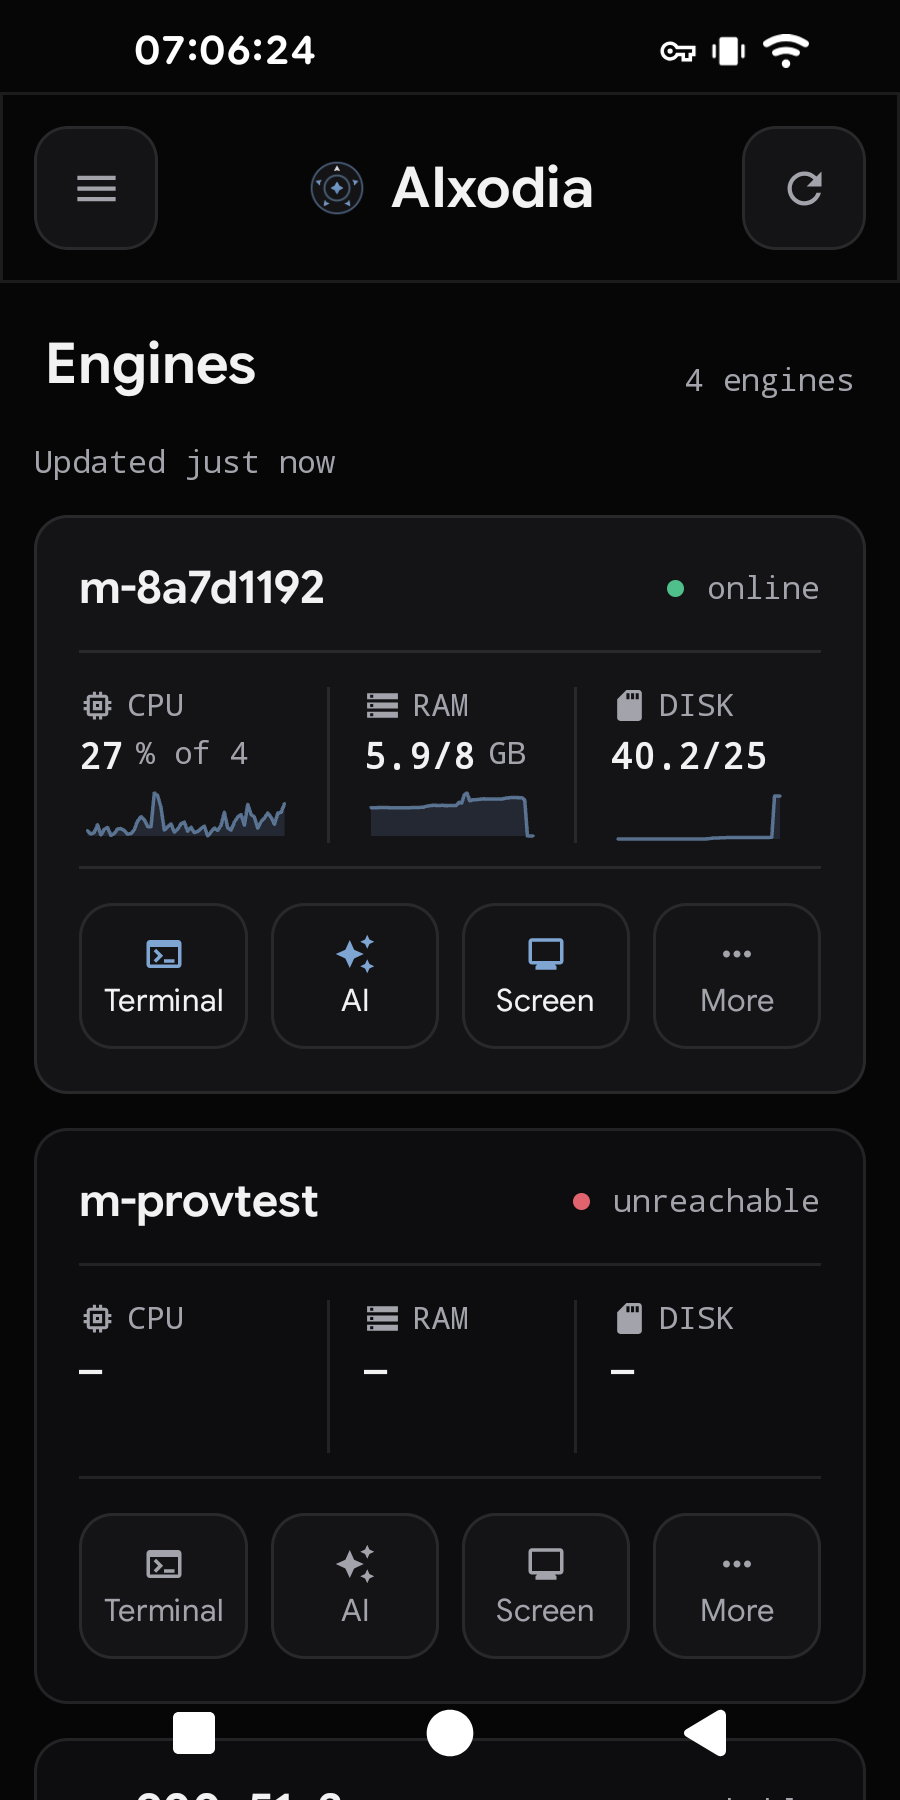
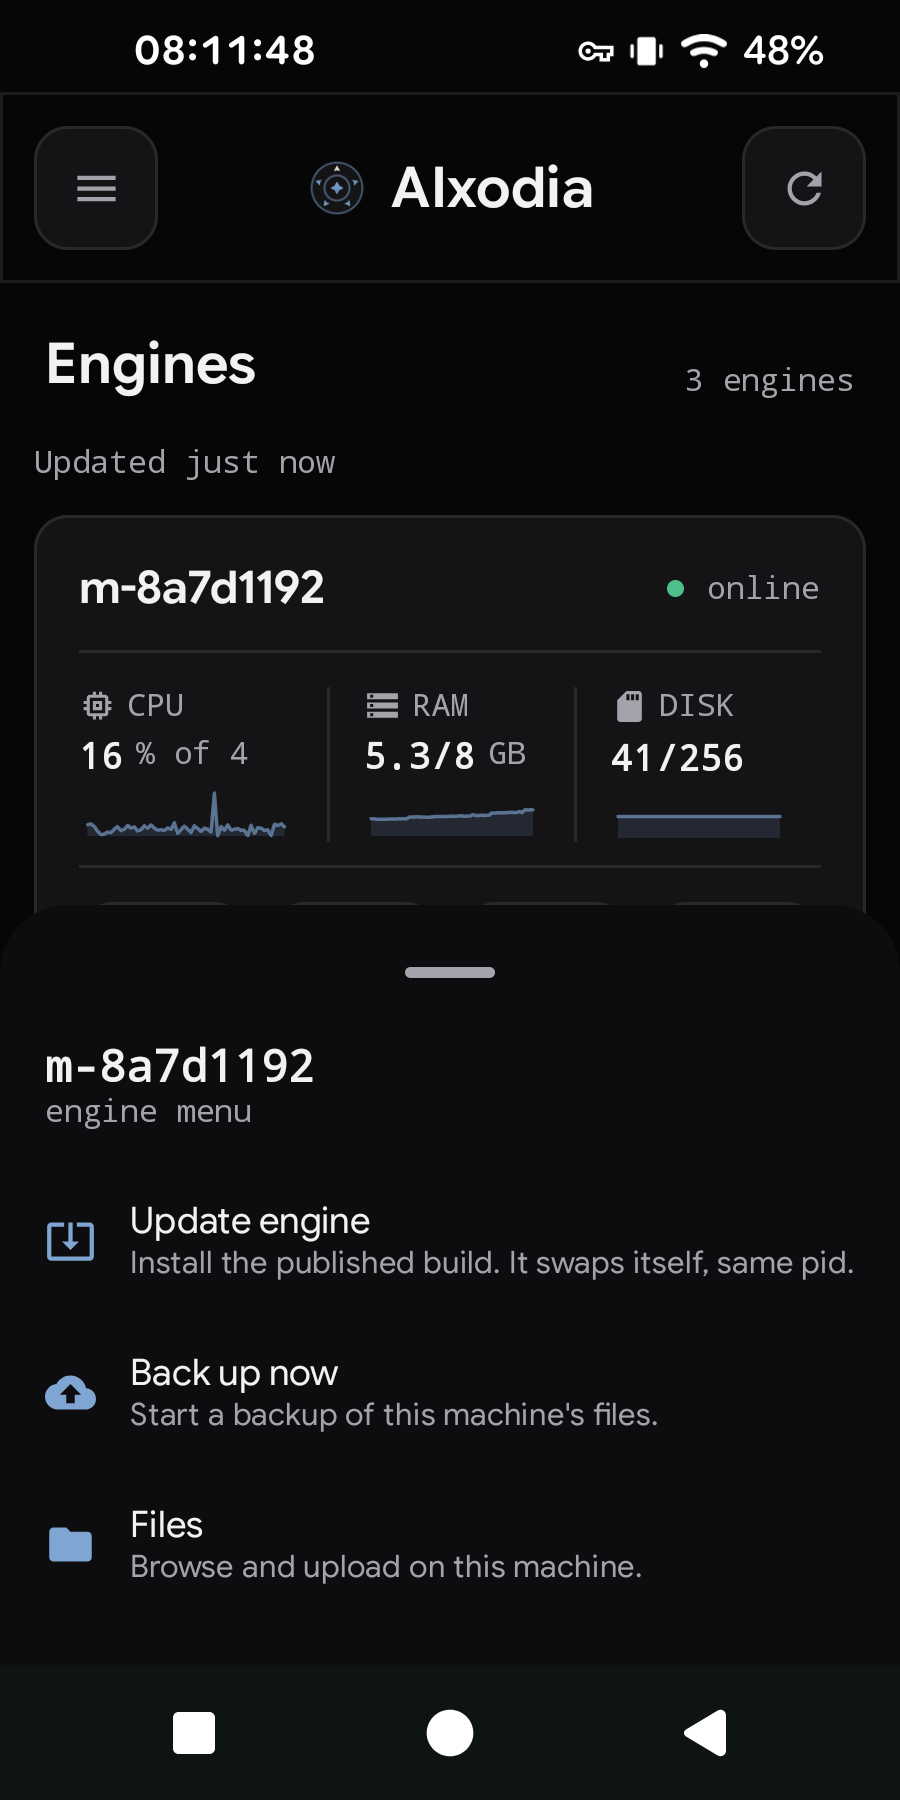
engines: the More menu is a panel in the middle, not a sheet
A sheet rises from the bottom and covers the list it was opened from — the card
the reader is deciding about disappears behind it. This is a question about
*that* card, asked while looking at it, so it is a panel over the middle of the
screen: the card stays visible behind the dimmed list.

Centred, sized by its own width (32 dp from each edge) rather than by the
dialog's default measurement, with a hairline between rows as the console draws
one. The result line appears under the rows only when there is something to
say: an empty two-line box there read as a fourth row that failed to load.

diff --git a/app/src/main/kotlin/com/tulipskun/aixodia/ui/engines/EngineMenu.kt b/app/src/main/kotlin/com/tulipskun/aixodia/ui/engines/EngineMenu.kt
@@ -1,6 +1,7 @@
 package com.tulipskun.aixodia.ui.engines
 
 import androidx.compose.foundation.background
+import androidx.compose.foundation.border
 import androidx.compose.foundation.clickable
 import androidx.compose.foundation.layout.Arrangement
 import androidx.compose.foundation.layout.Box
@@ -11,17 +12,16 @@ import androidx.compose.foundation.layout.fillMaxWidth
 import androidx.compose.foundation.layout.height
 import androidx.compose.foundation.layout.padding
 import androidx.compose.foundation.layout.size
+import androidx.compose.foundation.layout.width
+import androidx.compose.foundation.shape.RoundedCornerShape
 import androidx.compose.material.icons.Icons
 import androidx.compose.material.icons.filled.CloudUpload
 import androidx.compose.material.icons.filled.Folder
 import androidx.compose.material.icons.filled.SystemUpdateAlt
 import androidx.compose.material3.CircularProgressIndicator
-import androidx.compose.material3.ExperimentalMaterial3Api
 import androidx.compose.material3.Icon
 import androidx.compose.material3.MaterialTheme
-import androidx.compose.material3.ModalBottomSheet
 import androidx.compose.material3.Text
-import androidx.compose.material3.rememberModalBottomSheetState
 import androidx.compose.runtime.Composable
 import androidx.compose.ui.Alignment
 import androidx.compose.ui.Modifier
@@ -30,27 +30,33 @@ import androidx.compose.ui.text.font.FontFamily
 import androidx.compose.ui.text.font.FontWeight
 import androidx.compose.ui.text.style.TextOverflow
 import androidx.compose.ui.unit.dp
+import androidx.compose.ui.window.Dialog
+import androidx.compose.ui.window.DialogProperties
 import com.tulipskun.aixodia.EngineEntry
 import com.tulipskun.aixodia.ui.theme.Space
 import com.tulipskun.aixodia.ui.theme.aixodia
 
-/** The row names this sheet uses for "which one is working". */
+/** The row names this menu uses for "which one is working". */
 internal const val UPDATE = "update"
 internal const val BACKUP = "backup"
 
 /**
- * The sheet behind a card's **More**.
+ * The menu behind a card's **More**: a panel in the middle of the screen.
  *
  * A card has room for three verbs beside it; everything else a machine can be
- * asked to do would crowd those three into seven. The sheet is the second
- * shelf: the machine's name at the top, then one row per verb, each with the
- * sentence that says what it will actually do.
+ * asked to do would crowd those three into seven. This is the second shelf —
+ * the machine's name, then one row per verb with the sentence that says what it
+ * will actually do.
+ *
+ * It sits in the centre rather than rising from the bottom because it is a
+ * question about *this card*, asked while looking at the list: a sheet covers
+ * the card it belongs to, and the reader loses the machine they are deciding
+ * about. The panel keeps the list visible behind it and the card in place.
  *
  * The rows are three because three things exist to be said. A fourth that
  * nothing implements would be drawn disabled and would teach the reader that
- * the sheet is decoration; adding one here is one row and one call site.
+ * the menu is decoration; adding one is one row and one call site.
  */
-@OptIn(ExperimentalMaterial3Api::class)
 @Composable
 internal fun EngineMenu(
     engine: EngineEntry,
@@ -61,31 +67,48 @@ internal fun EngineMenu(
     onFiles: () -> Unit,
     onDismiss: () -> Unit,
 ) {
-    val sheet = rememberModalBottomSheetState(skipPartiallyExpanded = true)
-    ModalBottomSheet(
+    Dialog(
         onDismissRequest = onDismiss,
-        sheetState = sheet,
-        containerColor = MaterialTheme.colorScheme.surfaceContainerLow,
-        contentColor = MaterialTheme.colorScheme.onSurface,
+        // The default width is a percentage of the window taken by the dialog
+        // system; this panel decides its own, so a long description line is not
+        // wrapped by a number nobody here chose.
+        properties = DialogProperties(usePlatformDefaultWidth = false),
     ) {
-        Column(Modifier.fillMaxWidth().padding(horizontal = Space.s4)) {
+        val shape = RoundedCornerShape(14.dp)
+        Column(
+            Modifier
+                .fillMaxWidth()
+                .padding(horizontal = 32.dp)
+                .background(MaterialTheme.colorScheme.surfaceContainerHigh, shape)
+                .border(1.dp, MaterialTheme.aixodia.line, shape)
+                .padding(horizontal = Space.s4, vertical = Space.s3),
+        ) {
             // The console's head: what this is about, and what it is.
-            Text(
-                engine.name,
-                style = MaterialTheme.typography.titleMedium,
-                fontFamily = FontFamily.Monospace,
-                fontWeight = FontWeight.SemiBold,
-                color = MaterialTheme.colorScheme.onSurface,
-                maxLines = 1,
-                overflow = TextOverflow.Ellipsis,
-            )
-            Text(
-                if (engine.online) "engine menu" else "engine menu · unreachable",
-                style = MaterialTheme.typography.labelMedium,
-                fontFamily = FontFamily.Monospace,
-                color = MaterialTheme.colorScheme.onSurfaceVariant,
-            )
-            Spacer(Modifier.height(Space.s3))
+            Row(
+                Modifier.fillMaxWidth(),
+                verticalAlignment = Alignment.CenterVertically,
+                horizontalArrangement = Arrangement.SpaceBetween,
+            ) {
+                Text(
+                    engine.name,
+                    style = MaterialTheme.typography.titleMedium,
+                    fontFamily = FontFamily.Monospace,
+                    fontWeight = FontWeight.SemiBold,
+                    color = MaterialTheme.colorScheme.onSurface,
+                    maxLines = 1,
+                    overflow = TextOverflow.Ellipsis,
+                    modifier = Modifier.weight(1f, fill = false),
+                )
+                Spacer(Modifier.width(Space.s3))
+                Text(
+                    if (engine.online) "engine menu" else "unreachable",
+                    style = MaterialTheme.typography.labelSmall,
+                    fontFamily = FontFamily.Monospace,
+                    color = MaterialTheme.colorScheme.onSurfaceVariant,
+                )
+            }
+            Spacer(Modifier.height(Space.s2))
+            Hairline()
 
             MenuRow(
                 icon = Icons.Default.SystemUpdateAlt,
@@ -95,6 +118,7 @@ internal fun EngineMenu(
                 enabled = working.isEmpty(),
                 onClick = onUpdate,
             )
+            Hairline()
             MenuRow(
                 icon = Icons.Default.CloudUpload,
                 title = "Back up now",
@@ -103,6 +127,7 @@ internal fun EngineMenu(
                 enabled = working.isEmpty(),
                 onClick = onBackup,
             )
+            Hairline()
             MenuRow(
                 icon = Icons.Default.Folder,
                 title = "Files",
@@ -112,23 +137,29 @@ internal fun EngineMenu(
                 onClick = onFiles,
             )
 
+            // The result of the last row, under them: the answer belongs to
+            // the row that was pressed, so it is read in the same place. Only
+            // there when there is something to say — an empty two-line box
+            // under the last row reads as a fourth row that failed to load.
             if (note.isNotEmpty()) {
-                Spacer(Modifier.height(Space.s2))
-                Box(
-                    Modifier.fillMaxWidth().height(1.dp)
-                        .background(MaterialTheme.aixodia.line),
-                )
                 Spacer(Modifier.height(Space.s2))
                 Text(
                     note,
                     style = MaterialTheme.typography.labelMedium,
                     fontFamily = FontFamily.Monospace,
                     color = MaterialTheme.colorScheme.onSurfaceVariant,
+                    maxLines = 2,
+                    overflow = TextOverflow.Ellipsis,
                 )
             }
-            Spacer(Modifier.height(Space.s4))
         }
     }
+}
+
+/** The hairline the console draws where two darks meet. */
+@Composable
+private fun Hairline() {
+    Box(Modifier.fillMaxWidth().height(1.dp).background(MaterialTheme.aixodia.line))
 }
 
 /** One verb: an icon, a name, and the sentence that keeps it honest. */
@@ -163,6 +194,8 @@ private fun MenuRow(
                 detail,
                 style = MaterialTheme.typography.labelSmall,
                 color = MaterialTheme.colorScheme.onSurfaceVariant,
+                maxLines = 2,
+                overflow = TextOverflow.Ellipsis,
             )
         }
         if (busy) {
